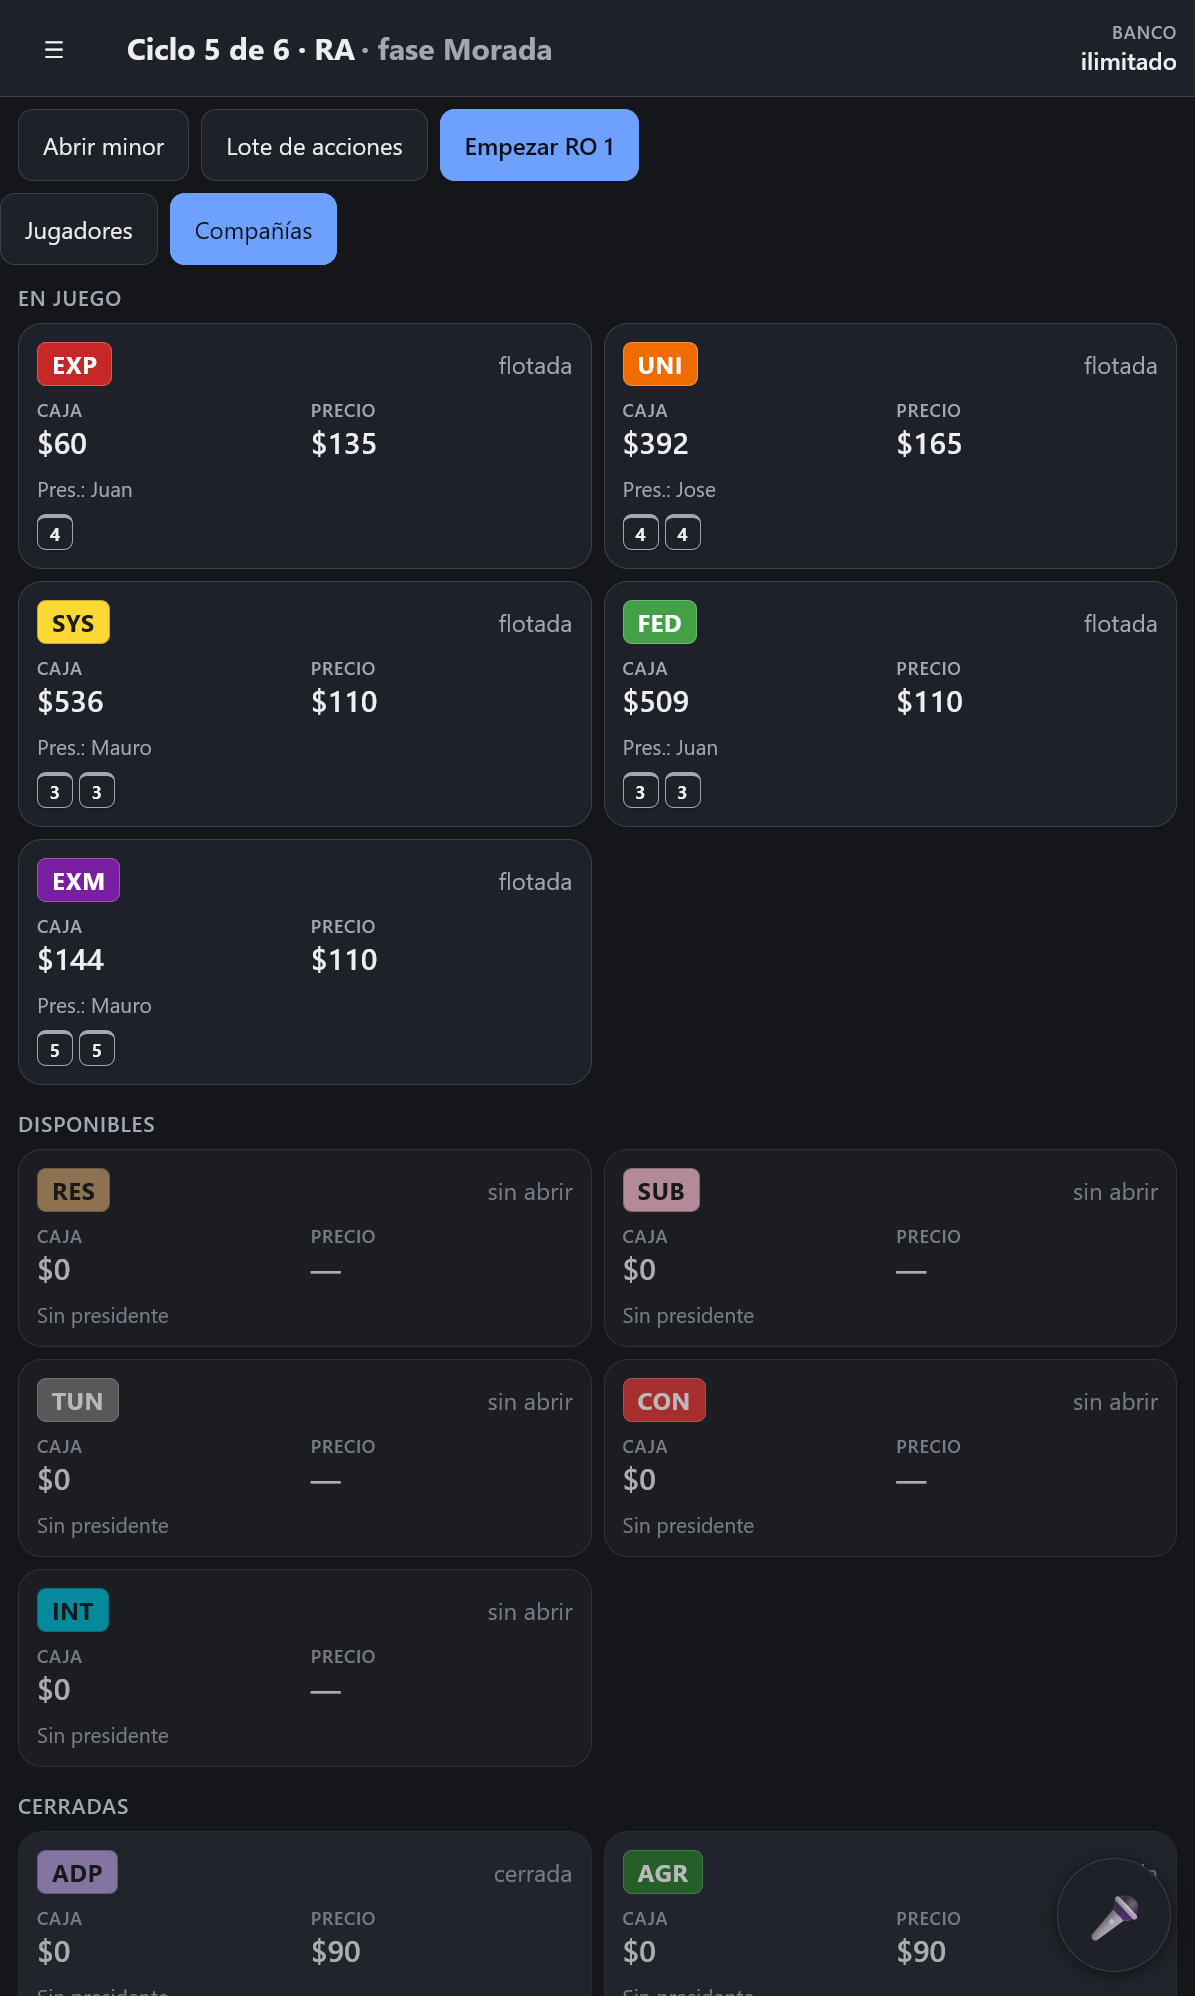
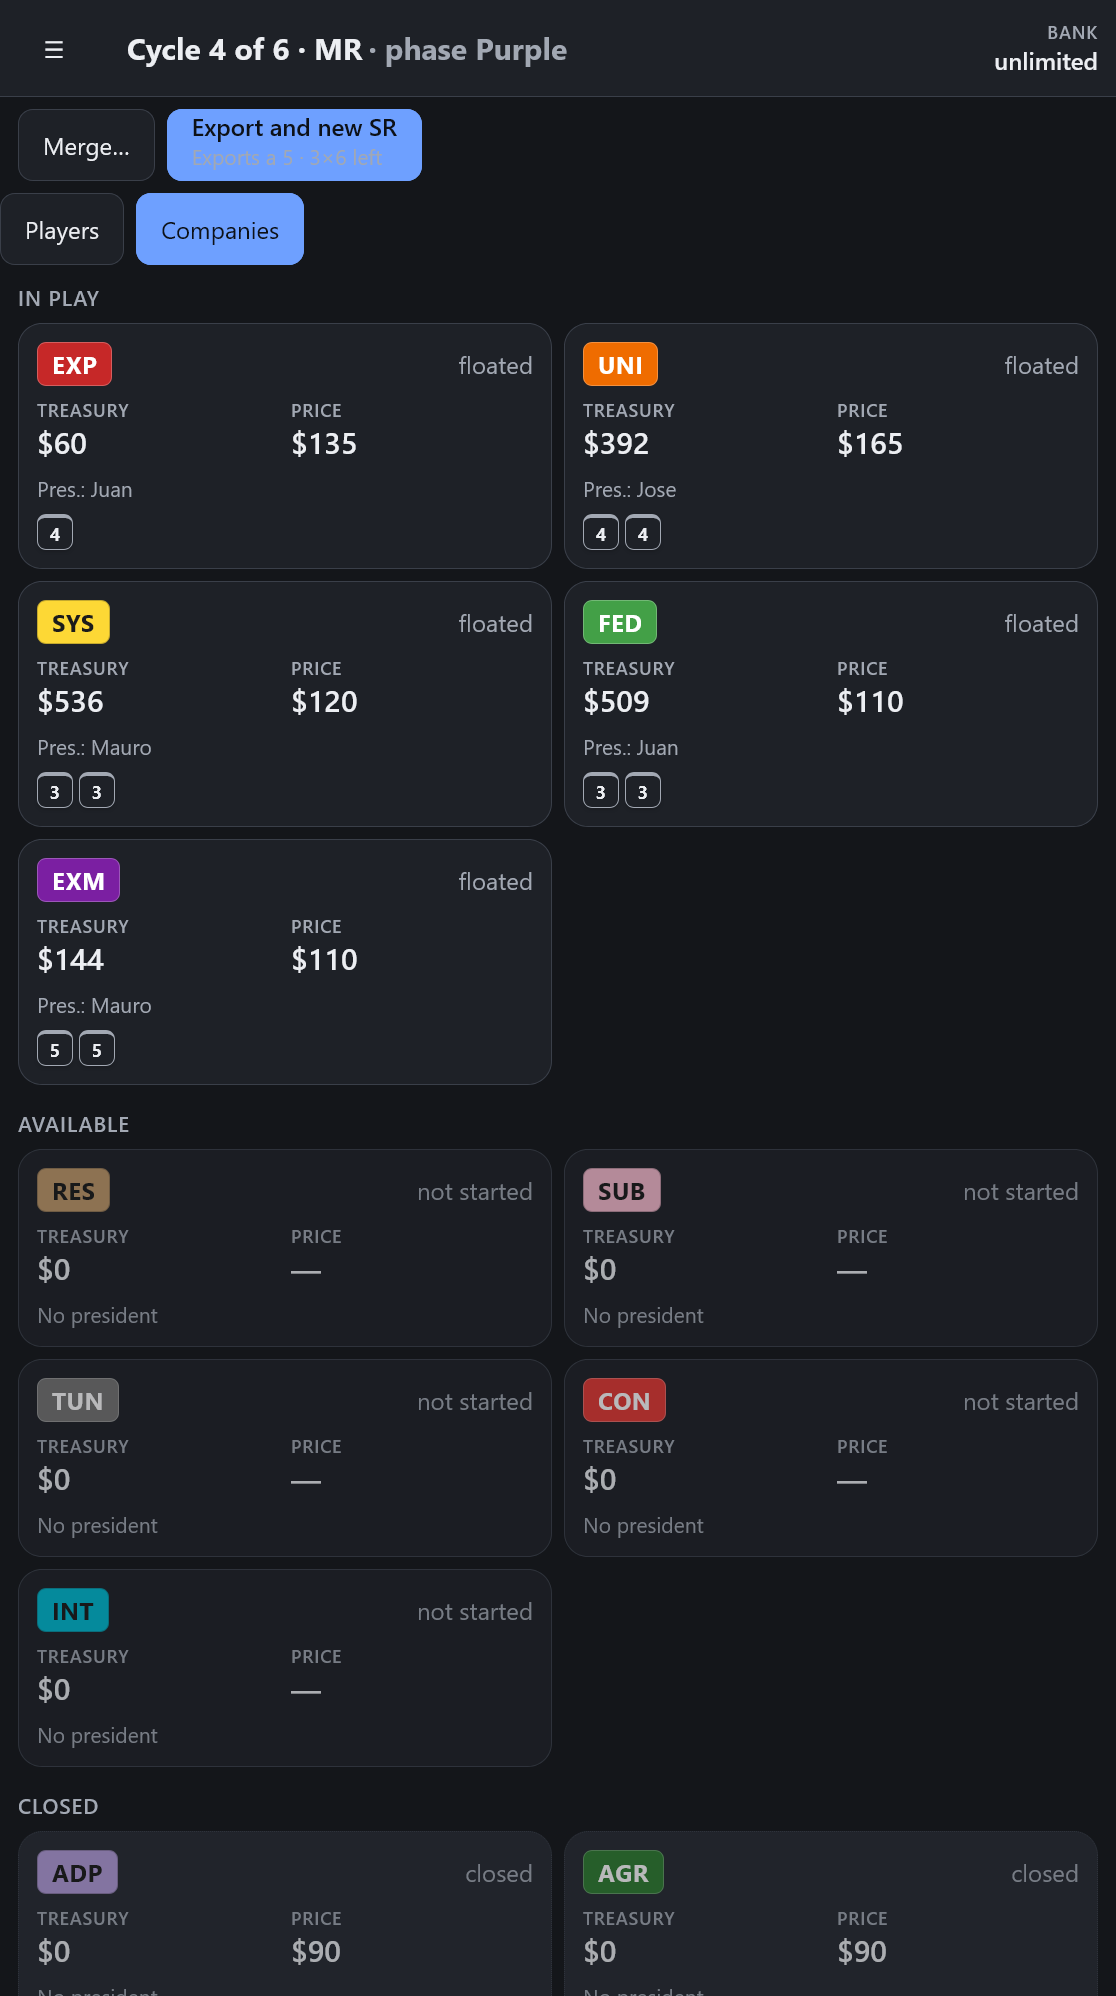
Update readme and screenshots to reflect english support

diff --git a/README.md b/README.md
@@ -17,7 +17,7 @@ It handles the bookkeeping that slows games down (bank, player cash, company tre
   <img src="docs/screenshots/history.png" alt="History" width="260">
 </p>
 
-> The app is in **English and Spanish**: it follows the device's language and can be switched in Settings. Voice commands follow the display language (English voice is turned on once it passes its evaluation). Text lives in `src/i18n/<language>/`.
+> The app is in **English and Spanish**: it follows the device's language and can be switched in Settings. Voice commands work in both languages and follow the display language. Text lives in `src/i18n/<language>/`.
 
 ## Features
 
@@ -25,7 +25,7 @@ It handles the bookkeeping that slows games down (bank, player cash, company tre
 - **Money tracking:** player and company cash, share ownership, bank with a chip breakdown for every transaction, configurable chip denominations
 - **Operating rounds:** dividends (full payout, withhold, half-pay where the game allows it), stock market price moves with manual override, an income summary at the end of each OR
 - **History:** every change is recorded in an append-only ledger, with undo and a history view that shows where the money went
-- **Voice commands (optional):** hold a button, speak, review the proposed action, confirm with one tap
+- **Voice commands (optional):** hold a button, speak in English or Spanish, review the proposed action, confirm with one tap
 - **Two languages:** English and Spanish, everywhere from the menus to the history, with money written the way each language writes it
 - **Offline and installable:** all data stays on the device, with export/import of games and a game results page
 
@@ -57,7 +57,7 @@ Privacy:
 - API keys are stored on the device only, can be set to not be remembered, and are never included when exporting a game.
 - The app calls the providers directly from the browser using your key. There is no backend.
 
-Currently, speech recognition uses Web Speech API, which is limited to Chrome and Edge on destkop and Android.
+Currently, speech recognition uses Web Speech API, which is limited to Chrome and Edge on desktop and Android.
 
 ## Design decisions
 
@@ -93,7 +93,7 @@ CI runs type-check, lint, tests and `npm audit` on every push and pull request.
 
 ## Voice evaluation
 
-`eval/voice` contains 93 Spanish voice-command cases, the same 93 in English (written by players until real transcripts replace them), and game-state fixtures, used to compare models and prompts. `npm run eval:voice -- --lang es|en|all` reports each language on its own. A Spanish run on 2026-10-19 with `gemini-3.6-flash` scored 97.8% overall across the 93 Spanish cases. Treat these numbers as a snapshot of one run, not a guarantee.
+`eval/voice` contains 93 Spanish voice-command cases, the same 93 in English (written by players until real transcripts replace them), and game-state fixtures, used to compare models and prompts. `npm run eval:voice -- --lang es|en|all` reports each language on its own. A run on 2026-11-07 with `gemini-3.6-flash` scored 98.9% in both Spanish and English (93 cases each), up from 97.8% for the Spanish-only run on 2026-10-19. Treat these numbers as a snapshot of one run, not a guarantee.
 
 ## Project structure
 
@@ -121,12 +121,10 @@ This project uses spec-driven development with [GitHub Spec Kit](https://github.
 
 - 1830, 1848 and 21Moon haven't been played at a table yet (covered by automated tests for now)
 - No redo (see design decisions)
-- Spanish only for now
 - Chip suggestions are approximate. The app suggests how to make change but doesn’t enforce the chip supply entered during setup, so it may suggest paying out chips the bank doesn’t have. Players make change among themselves all the time, so tracking the physical supply exactly would disrupt play. Treat the suggestions as a guide.
 
 ## Roadmap 
 
-- English language support
 - Whisper-based speech recognition via Groq as a cross-browser alternative to the browser's recognizer
 - Better visual layout for tablets and large screen devices
 - Visual polish (buttons, layout, clearer notifications)
